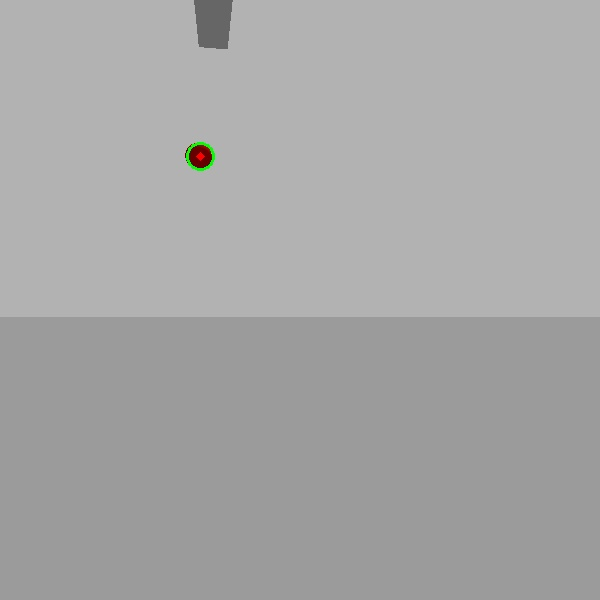
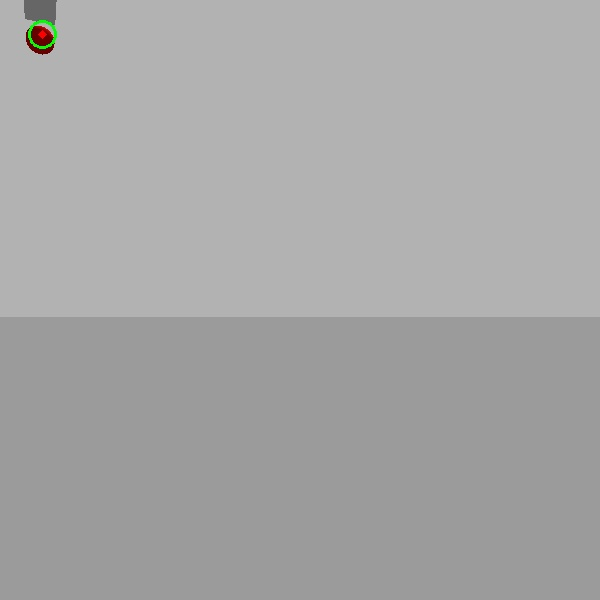
Accurate relative coordinate tracking achieved

Changed region(s): [[0.03, 0.0, 0.12, 0.09], [0.3, 0.0, 0.39, 0.09], [0.3, 0.24, 0.36, 0.3]]

diff --git a/depthloctest.py b/depthloctest.py
@@ -22,13 +22,23 @@ class depth_finder:
 
 		#rospy.Timer(rospy.Duration(self.dT), self.loop, oneshot=False)
 
-
+		# XYZ coordinates
 		self.x = 0.0
 		self.y = 0.0
 		self.z = 0.0
 
-		self.r_v = 0.0
+		#self.H = 0.0
 
+		# Intermediate angles
+		self.ay = 0.0
+		self.by = 0.0
+		self.az = 0.0
+		self.bz = 0.0
+
+		# Radial distance to button
+		self.r = 0.0
+
+		# Pixel inputs
 		self.pix_y = 0
 		self.pix_z = 0
 
@@ -49,12 +59,23 @@ class depth_finder:
 
 		print depth_array.shape
 
-		
-		self.x = depth_array[self.pix_z,self.pix_y]
+		# Find radial distance to button using pixel coordinates
+		self.r = depth_array[self.pix_z,self.pix_y]
 
-		self.r_v = self.x*np.sin(0.523599)
-		self.y = (300-float(self.pix_y))*self.r_v/300
-		self.z = (300-float(self.pix_z))*self.r_v/300
+		# Find intermediate angles
+		self.ay = (self.pix_y/300)*0.523599
+		self.by = 0.523599 - self.ay
+
+		self.az = (self.pix_z/300)*0.523599
+		self.bz = 0.523599 - self.az
+
+
+		
+		self.y = self.r*np.sin(self.by)
+		self.z = self.r*np.sin(self.bz)
+		#self.H = np.sqrt((self.y)**2 + (self.z)**2)
+		#self.x = np.sqrt((self.r)**2 + (self.H)**2)
+		self.x = self.r
 
 		self.xyz_array.data = []
 		self.xyz_array.data.append(self.x)
@@ -65,7 +86,7 @@ class depth_finder:
 		print self.x
 		print self.y
 		print self.z
-
+		print self.r
 	def pixel_callback(self,data):
 		
 		self.pix_y = data.data[0]
